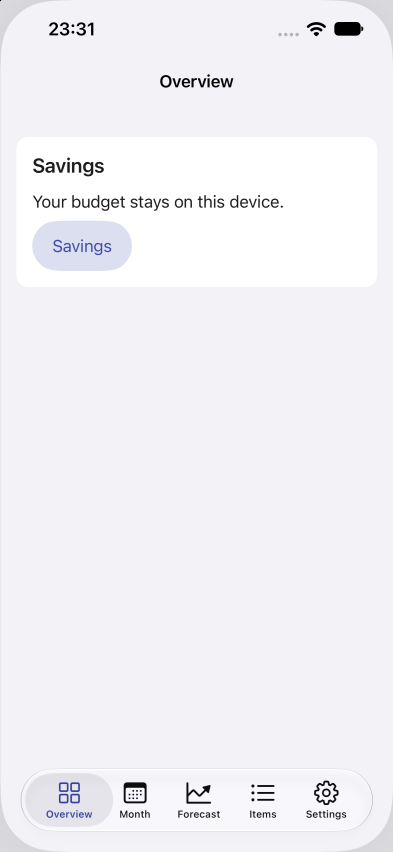
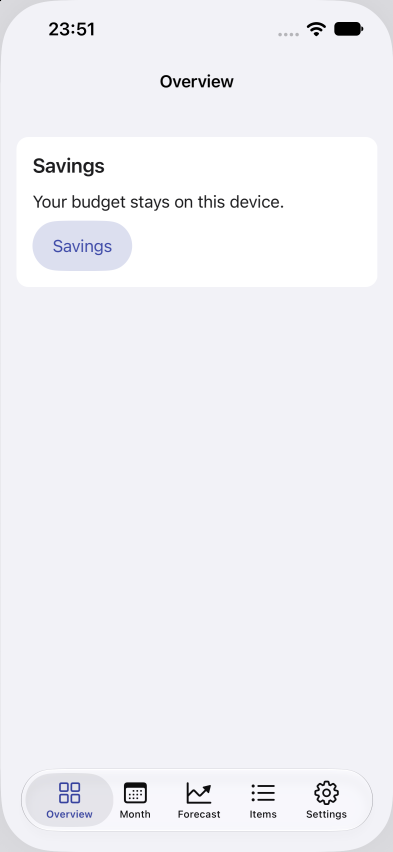
docs(db): refresh review-fix verification evidence

diff --git a/docs/evidence/74/README.md b/docs/evidence/74/README.md
@@ -1,32 +1,42 @@
 # #74 database bootstrap evidence
 
-Both development clients were rebuilt from this worktree after adding expo-sqlite. Native builds passed for iOS
-and Android. A fresh Metro server served port 8073; the device lock was held throughout builds and verification
-and released afterwards. Targets were the dedicated simulator/emulator selected by `E2E_IOS_SIMULATOR` and
-`E2E_ANDROID_AVD`.
+Full-suite verification after restoring the `(currency, source)` exchange-rate key and correcting the database
+failure documentation. The tests used a fresh Metro on port 8073 from this worktree, with telemetry disabled and
+the shared device lock held throughout. The suites ran sequentially; Metro was stopped and the lock released
+afterwards. Targets were the dedicated simulator/emulator selected by `E2E_IOS_SIMULATOR` and `E2E_ANDROID_AVD`.
 
-Tested commit: `5bd7eec4a354d3c263a17c22a785f9afca30dadb`. Both reports record `run.vcs.dirty: false`.
-The evidence-only commit adds this README and the raw, unmodified e2e screenshots; it changes no app code.
+Tested commit: `8d5739bbd315b0fc84215ade04e214098dcf17e4`. Both reports record `run.vcs.dirty: false`.
+The following evidence-only commit updates this README and the raw, unmodified e2e screenshots; it changes no
+app code. Native dependencies and config are unchanged from the previously rebuilt clients, so no new native
+build was needed for this verification.
 
 | Platform | Command (telemetry disabled) | Run ID | Result |
 | --- | --- | --- | --- |
-| iOS | `pnpm e2e:ios --output .e2e/ios-final` | `01a15b34-9112-75a3-b7df-864dbffe7425` | 23 passed, 4 skipped, 0 failed |
-| Android | `pnpm e2e:android` | `01a15b29-530f-7210-8793-0eb9ded98452` | 24 passed, 4 skipped, 0 failed |
+| iOS | `pnpm e2e:ios --output .e2e/ios-review` | `01a15b46-f64d-760c-9a43-81a35fd9fb6c` | 23 passed, 4 skipped, 0 failed |
+| Android | `pnpm e2e:android --output .e2e/android-review` | `01a15b4d-b314-7ed4-a82d-7a5f9a09832b` | 24 passed, 4 skipped, 0 failed |
 
 The four skipped tests require a separate 200% text-size run (`E2E_LARGE_TEXT=1`); the full default suite was
-selected on each platform. Android has one additional platform-specific list test. Both suites include cold
-launch to Overview and navigation through all tabs and Savings. The screenshots below come from the passing
-`opens Overview as the home screen` tests. Android uses the 9:41 demo clock.
+selected on each platform. Android has one additional platform-specific list test. Both suites include launch
+to Overview and navigation through all tabs and Savings. No reruns were needed on the fixed commit.
+
+The captures below are byte-identical copies of these runs' `opens Overview as the home screen` screenshots.
+Android uses the 9:41 demo clock. Its new source capture matches the previous PNG byte for byte because the
+screen and clock are unchanged; it was copied again from the new run and verified against that artifact. No
+montage, cropping or other image processing was applied.
 
 - [iOS Overview](ios-overview.png)
 - [Android Overview](android-overview.png)
 
-The initial concurrent iOS run (`01a15b29-36e3-7d77-8009-59c615d4c2f7`) had 19 passed, 4 failed and 4 skipped:
-picker/calendar taps, sheet scrolling and opening the showcase. Its six launch/navigation checks passed.
-The input and overlay files then passed unchanged in an isolated six-test rerun
-(`01a15b31-d5dc-7bf2-bcbf-4a641136f5dc`), followed by the passing full iOS run above. No assertions were relaxed.
+| Capture | SHA-256 (matches the source artifact) |
+| --- | --- |
[2 lines of base64/hex data omitted]
 
-`pnpm check` passed: 388 core tests, 11 database tests and 60 mobile tests; migration checks, typecheck, lint
-and Fallow passed. Production bundle exports and `expo install --check` also passed on both platforms.
-Database tests cover empty migration, idempotence, preserved rows on upgrade and business-rule constraints.
-SQLCipher key setup, encrypted pre-migration copies, cipher guard and recovery remain #75.
+`pnpm check` passed: 401 core tests, 12 database tests and 60 mobile tests; migration checks, typecheck, lint
+and Fallow passed. Database tests cover empty migration, idempotence, preservation of both rate sources across
+an upgrade, rollback on a failed migration, preserved child rows and business-rule constraints.
+
+#74's acceptance criteria cover startup migrations and Drizzle consistency. The database gate throws bootstrap
+failures during render and prevents data screens from mounting; no app-defined root boundary or failure/retry UI
+is implemented here. A root boundary and recovery screens remain follow-up work in #60/#75. SQLCipher key setup,
+encrypted pre-migration copies and the cipher guard remain #75.
